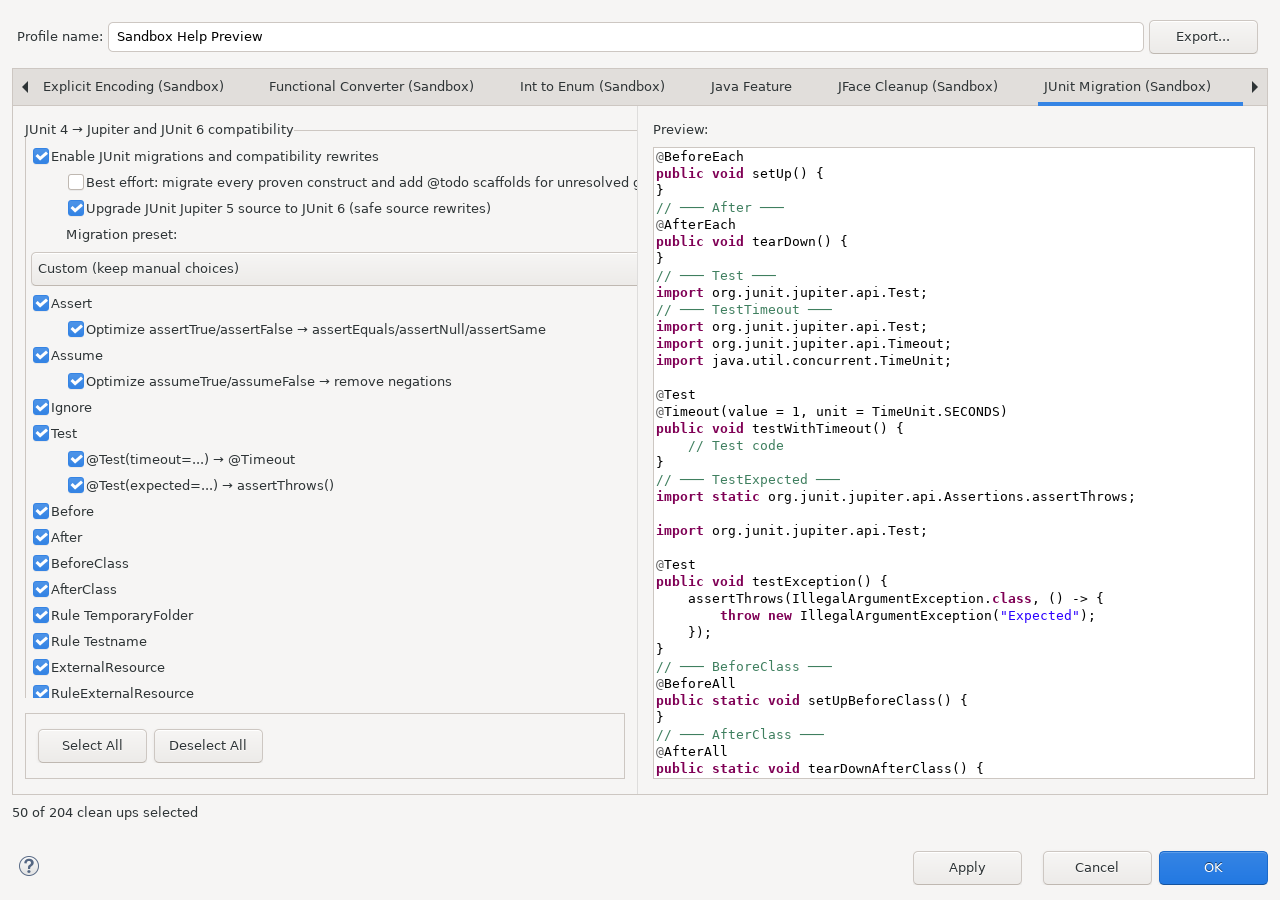
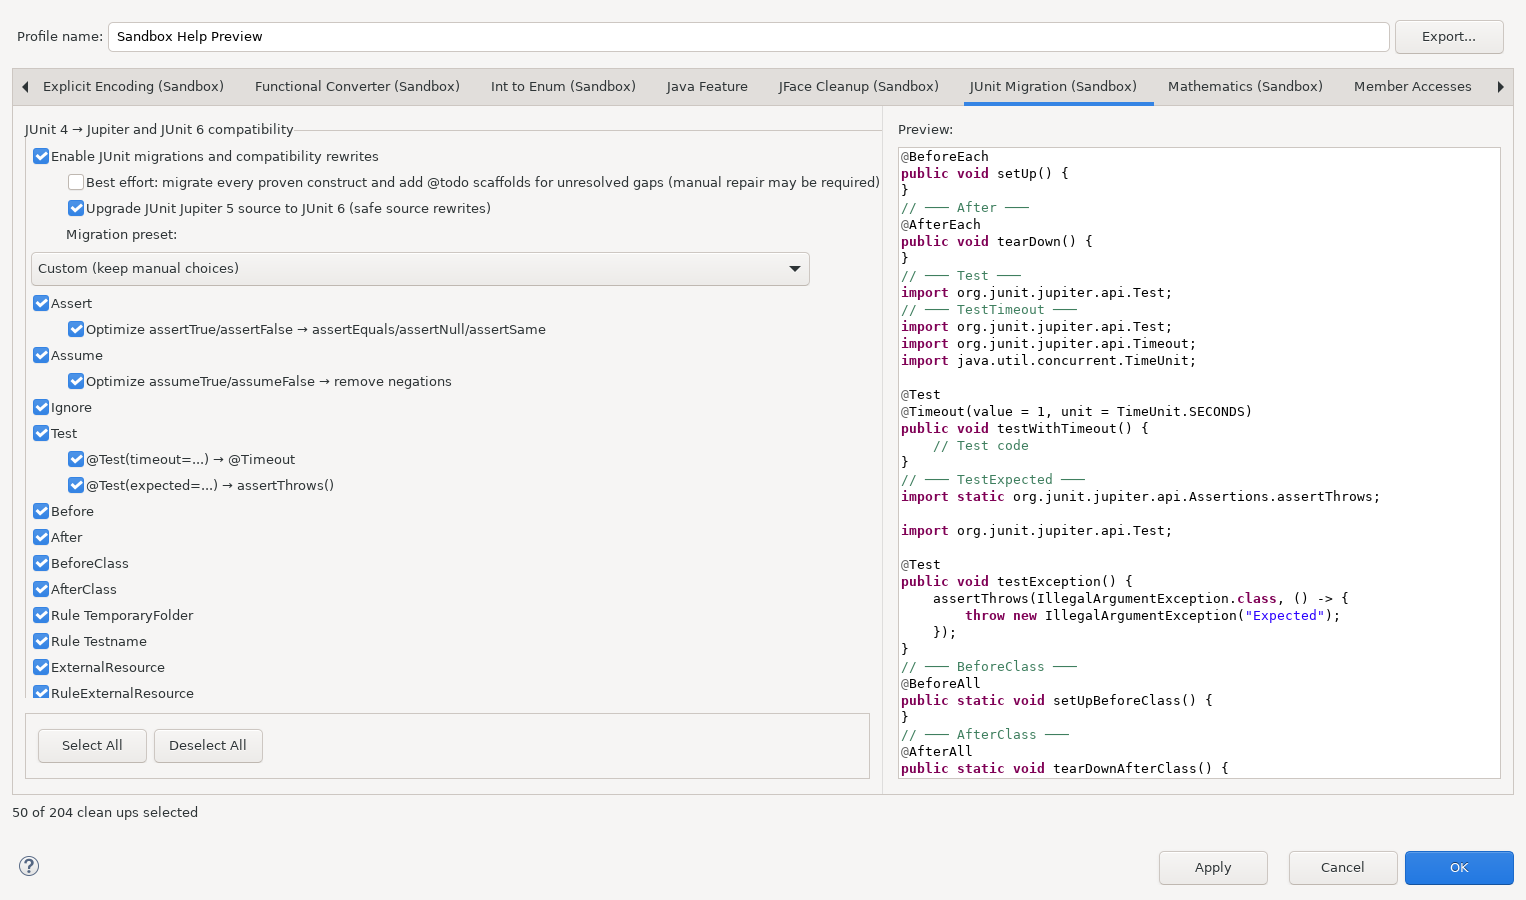
Isolate the widened JUnit Help capture in a fresh native dialog

diff --git a/sandbox_eclipse_help_swtbot_test/src/org/sandbox/jdt/ui/helper/views/FocusedCleanupConfigurationScreenshots.java b/sandbox_eclipse_help_swtbot_test/src/org/sandbox/jdt/ui/helper/views/FocusedCleanupConfigurationScreenshots.java
@@ -50,8 +50,10 @@ final class FocusedCleanupConfigurationScreenshots {
 	private record CleanupTab(String label, String helpBundle, String fileName) {
 	}
 
-	private static final String JUNIT_TAB= "JUnit Migration (Sandbox)"; //$NON-NLS-1$
+	private static final CleanupTab JUNIT_TAB= new CleanupTab("JUnit Migration (Sandbox)", "sandbox_junit_cleanup_help", //$NON-NLS-1$ //$NON-NLS-2$
+			"junit-migration-cleanup.png"); //$NON-NLS-1$
 	private static final String PROFILE_NAME= "Sandbox Help Preview"; //$NON-NLS-1$
+	private static final String PROFILE_NAME_LABEL= "Profile name:"; //$NON-NLS-1$
 
 	private static final List<CleanupTab> TABS= List.of(
 			new CleanupTab("Explicit Encoding (Sandbox)", "sandbox_encoding_quickfix_help", //$NON-NLS-1$ //$NON-NLS-2$
@@ -62,8 +64,7 @@ final class FocusedCleanupConfigurationScreenshots {
 					"int-to-enum-cleanup.png"), //$NON-NLS-1$
 			new CleanupTab("JFace Cleanup (Sandbox)", "sandbox_jface_cleanup_help", //$NON-NLS-1$ //$NON-NLS-2$
 					"jface-cleanup.png"), //$NON-NLS-1$
-			new CleanupTab(JUNIT_TAB, "sandbox_junit_cleanup_help", //$NON-NLS-1$
-					"junit-migration-cleanup.png"), //$NON-NLS-1$
+			JUNIT_TAB,
 			new CleanupTab("Method Reuse (Sandbox)", "sandbox_method_reuse_help", //$NON-NLS-1$ //$NON-NLS-2$
 					"method-reuse-cleanup.png"), //$NON-NLS-1$
 			new CleanupTab("Platform Status (Sandbox)", "sandbox_platform_helper_help", //$NON-NLS-1$ //$NON-NLS-2$
@@ -86,42 +87,68 @@ final class FocusedCleanupConfigurationScreenshots {
 		openPreferences(bot);
 		SWTBotShell preferences= bot.shell("Preferences").activate(); //$NON-NLS-1$
 		selectPreferencePath(bot, preferences.bot().tree(), "Java", "Code Style", "Clean Up"); //$NON-NLS-1$ //$NON-NLS-2$ //$NON-NLS-3$
-		clickButton(preferences, "Edit...", "Edit…"); //$NON-NLS-1$ //$NON-NLS-2$
 
+		SWTBotShell profileDialog= openScreenshotProfile(bot, preferences);
+		for (CleanupTab tab : TABS) {
+			selectTabOptions(bot, profileDialog, tab);
+			bot.sleep(500);
+			if (!JUNIT_TAB.equals(tab)) {
+				captureSelectedTab(profileDialog, outputRoot, tab);
+			}
+		}
+
+		CodePatternsConfigurationScreenshot.capture(bot, profileDialog, outputRoot);
+		// Restore the initial tab before reopening. Deselect All affects only the
+		// active page, so use a fresh edit to discard the options shown above.
+		profileDialog.bot().tabItem(TABS.getLast().label()).activate();
+		clickButton(profileDialog, "Cancel"); //$NON-NLS-1$
+		waitForShellToClose(bot, profileDialog, "Cleanup profile dialog"); //$NON-NLS-1$
+		preferences.activate();
+
+		// Widen only after the other captures. GTK changes button painting when
+		// the widened dialog returns to its standard size.
+		SWTBotShell junitDialog= openScreenshotProfile(bot, preferences);
+		for (CleanupTab tab : TABS.subList(0, TABS.indexOf(JUNIT_TAB))) {
+			selectTabOptions(bot, junitDialog, tab);
+			bot.sleep(500);
+		}
+		selectTabOptions(bot, junitDialog, JUNIT_TAB);
+		prepareJUnitForScreenshot(junitDialog);
+		bot.sleep(500);
+		captureSelectedTab(junitDialog, outputRoot, JUNIT_TAB);
+
+		clickButton(junitDialog, "Cancel"); //$NON-NLS-1$
+		waitForShellToClose(bot, junitDialog, "Cleanup profile dialog"); //$NON-NLS-1$
+		preferences.activate();
+		clickButton(preferences, "Cancel"); //$NON-NLS-1$
+		waitForShellToClose(bot, preferences, "Preferences"); //$NON-NLS-1$
+	}
+
+	private static SWTBotShell openScreenshotProfile(SWTWorkbenchBot bot, SWTBotShell preferences) {
+		clickButton(preferences, "Edit...", "Edit…"); //$NON-NLS-1$ //$NON-NLS-2$
 		SWTBotShell profileDialog= bot.activeShell();
-		var profileName= profileDialog.bot().textWithLabel("Profile name:"); //$NON-NLS-1$
+		var profileName= profileDialog.bot().textWithLabel(PROFILE_NAME_LABEL);
 		if (!PROFILE_NAME.equals(profileName.getText())) {
 			profileName.setText(PROFILE_NAME);
 		}
 		prepareForScreenshot(bot, profileDialog);
-		for (CleanupTab tab : TABS) {
-			clickButton(profileDialog, "Deselect All"); //$NON-NLS-1$
-			profileDialog.bot().tabItem(tab.label()).activate();
-			bot.sleep(250);
-			int selected= selectVisibleCleanupCheckboxes(bot, profileDialog);
-			assertTrue(selected > 0, () -> "No enabled cleanup option was selected for " + tab.label()); //$NON-NLS-1$
-			boolean junitTab= JUNIT_TAB.equals(tab.label());
-			if (junitTab) {
-				prepareJUnitForScreenshot(profileDialog);
-			}
-			bot.sleep(500);
-			assertEquals(PROFILE_NAME, profileName.getText());
-			assertTrue(profileDialog.bot().button("OK").isEnabled(), //$NON-NLS-1$
-					"The documentation profile must be valid and confirmable before capture"); //$NON-NLS-1$
-			capture(profileDialog, outputRoot, tab.helpBundle(), tab.fileName());
-			if (junitTab) {
-				setStandardSize(profileDialog);
-			}
-			System.out.println("[help-screenshots] Captured focused enabled cleanup tab: " + tab.label()); //$NON-NLS-1$
-		}
+		return profileDialog;
+	}
 
-		CodePatternsConfigurationScreenshot.capture(bot, profileDialog, outputRoot);
+	private static void selectTabOptions(SWTWorkbenchBot bot, SWTBotShell shell, CleanupTab tab) {
+		clickButton(shell, "Deselect All"); //$NON-NLS-1$
+		shell.bot().tabItem(tab.label()).activate();
+		bot.sleep(250);
+		int selected= selectVisibleCleanupCheckboxes(bot, shell);
+		assertTrue(selected > 0, () -> "No enabled cleanup option was selected for " + tab.label()); //$NON-NLS-1$
+	}
 
-		clickButton(profileDialog, "Cancel"); //$NON-NLS-1$
-		waitForShellToClose(bot, profileDialog, "Cleanup profile dialog"); //$NON-NLS-1$
-		preferences.activate();
-		clickButton(preferences, "Cancel"); //$NON-NLS-1$
-		waitForShellToClose(bot, preferences, "Preferences"); //$NON-NLS-1$
+	private static void captureSelectedTab(SWTBotShell shell, Path outputRoot, CleanupTab tab) throws IOException {
+		assertEquals(PROFILE_NAME, shell.bot().textWithLabel(PROFILE_NAME_LABEL).getText());
+		assertTrue(shell.bot().button("OK").isEnabled(), //$NON-NLS-1$
+				"The documentation profile must be valid and confirmable before capture"); //$NON-NLS-1$
+		capture(shell, outputRoot, tab.helpBundle(), tab.fileName());
+		System.out.println("[help-screenshots] Captured focused enabled cleanup tab: " + tab.label()); //$NON-NLS-1$
 	}
 
 	private static int selectVisibleCleanupCheckboxes(SWTWorkbenchBot bot, SWTBotShell shell) {
@@ -217,19 +244,6 @@ final class FocusedCleanupConfigurationScreenshots {
 	}
 
 	static void prepareForScreenshot(SWTWorkbenchBot bot, SWTBotShell shell) {
-		setStandardSize(shell);
-		// SWTBot activation forces focus. Activate before selecting options so the
-		// capture preserves the native button painting after the selection events.
-		shell.activate();
-		bot.sleep(500);
-	}
-
-	static void prepareJUnitForScreenshot(SWTBotShell shell) {
-		Button bestEffort= shell.bot().checkBox(BEST_EFFORT_LABEL).widget;
-		UIThreadRunnable.syncExec(shell.display, (VoidResult) () -> showCompleteJUnitPolicy(bestEffort));
-	}
-
-	private static void setStandardSize(SWTBotShell shell) {
 		UIThreadRunnable.syncExec(shell.display, new VoidResult() {
 			@Override
 			public void run() {
@@ -239,6 +253,15 @@ final class FocusedCleanupConfigurationScreenshots {
 				shell.widget.layout(true, true);
 			}
 		});
+		// SWTBot activation forces focus. Activate before selecting options so the
+		// capture preserves the native button painting after the selection events.
+		shell.activate();
+		bot.sleep(500);
+	}
+
+	static void prepareJUnitForScreenshot(SWTBotShell shell) {
+		Button bestEffort= shell.bot().checkBox(BEST_EFFORT_LABEL).widget;
+		UIThreadRunnable.syncExec(shell.display, (VoidResult) () -> showCompleteJUnitPolicy(bestEffort));
 	}
 
 	/** Keeps the native preview width while giving the long JUnit policy its measured space. */
